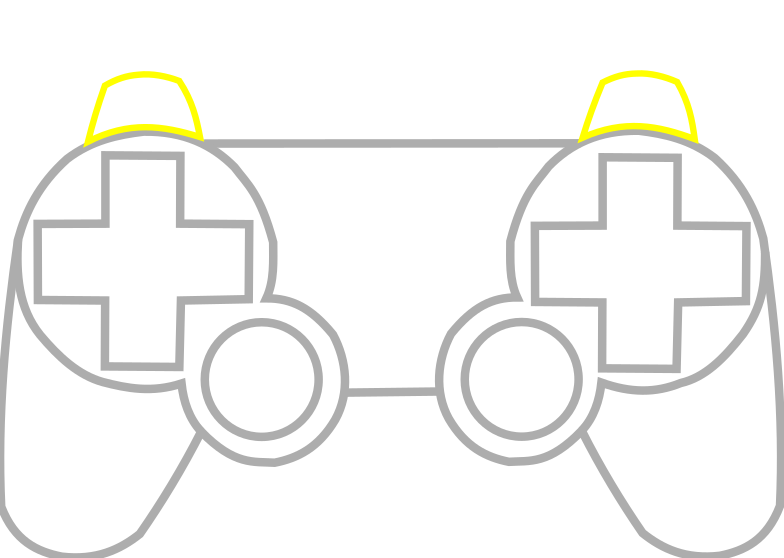
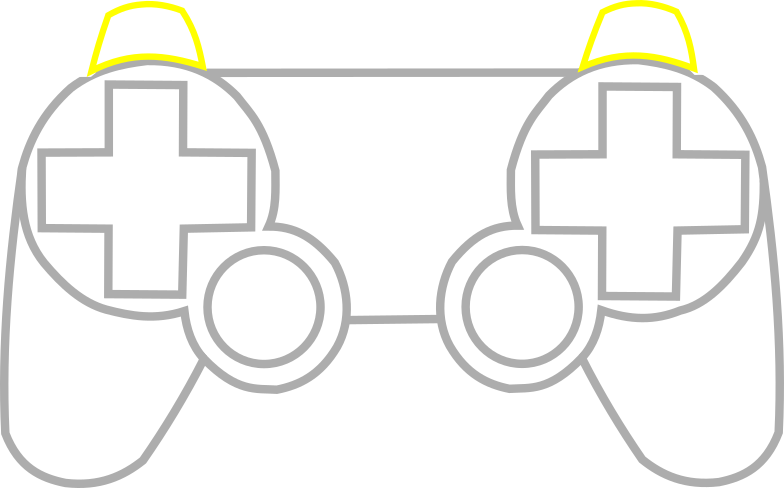
whit button to side

Changed region(s): [[0.0, 0.0, 1.0, 1.0], [0.9796, 0.707, 1.0, 0.7377]]

diff --git a/gamepadviewerCSS/myps3.css b/gamepadviewerCSS/myps3.css
@@ -1,29 +1,52 @@
-.ps .bumper {
-    transform: scale(1.4, 2.3);
-}
-.ps .bumpers {
-    top: 85px;
+.controller.ps {
+    height: 488px;
+    width: 784px;
 }
 
-.ps .bumper.left {
-    transform: rotateY(180deg);
-    transform: scale(1.4, 2.3);
+.ps .bumpers {
+    top: 18px;
+    left: 145px;
+    width: 497px;
+    transform: scale(1.2, 2.3);
+}
+
+.ps .triggers {
+    left: 10px;
+    top: 10px;
+    width: 766px;
+}
+
+.ps .face.up {
+    top: -69px;
+}
+
+.ps .face.down {
+    top: 20px;
+}
+
+.ps .face.left {
+    top: -18px;
+}
+
+.ps .face.right {
+    top: -18px;
 }
 
 .ps .button {
     transform: scale(1.1, 1.1);
+    top: 70px;
 }
 
 .ps .b {
-    top: 77px;
+    top: 5px;
     right: 5px;
 }
 .ps .x {
-    top: 77px;
+    top: 5px;
     left: 5px;
 }
 .ps .y {
-    top: 8px;
+    top: -60px;
     left: 71px;
 }
 
@@ -62,3 +85,4 @@
 .ps.white .face {
     background-image: url(https://ynws.github.io/gamepadviewerCSS/skins/dpad.png);
 }
+
